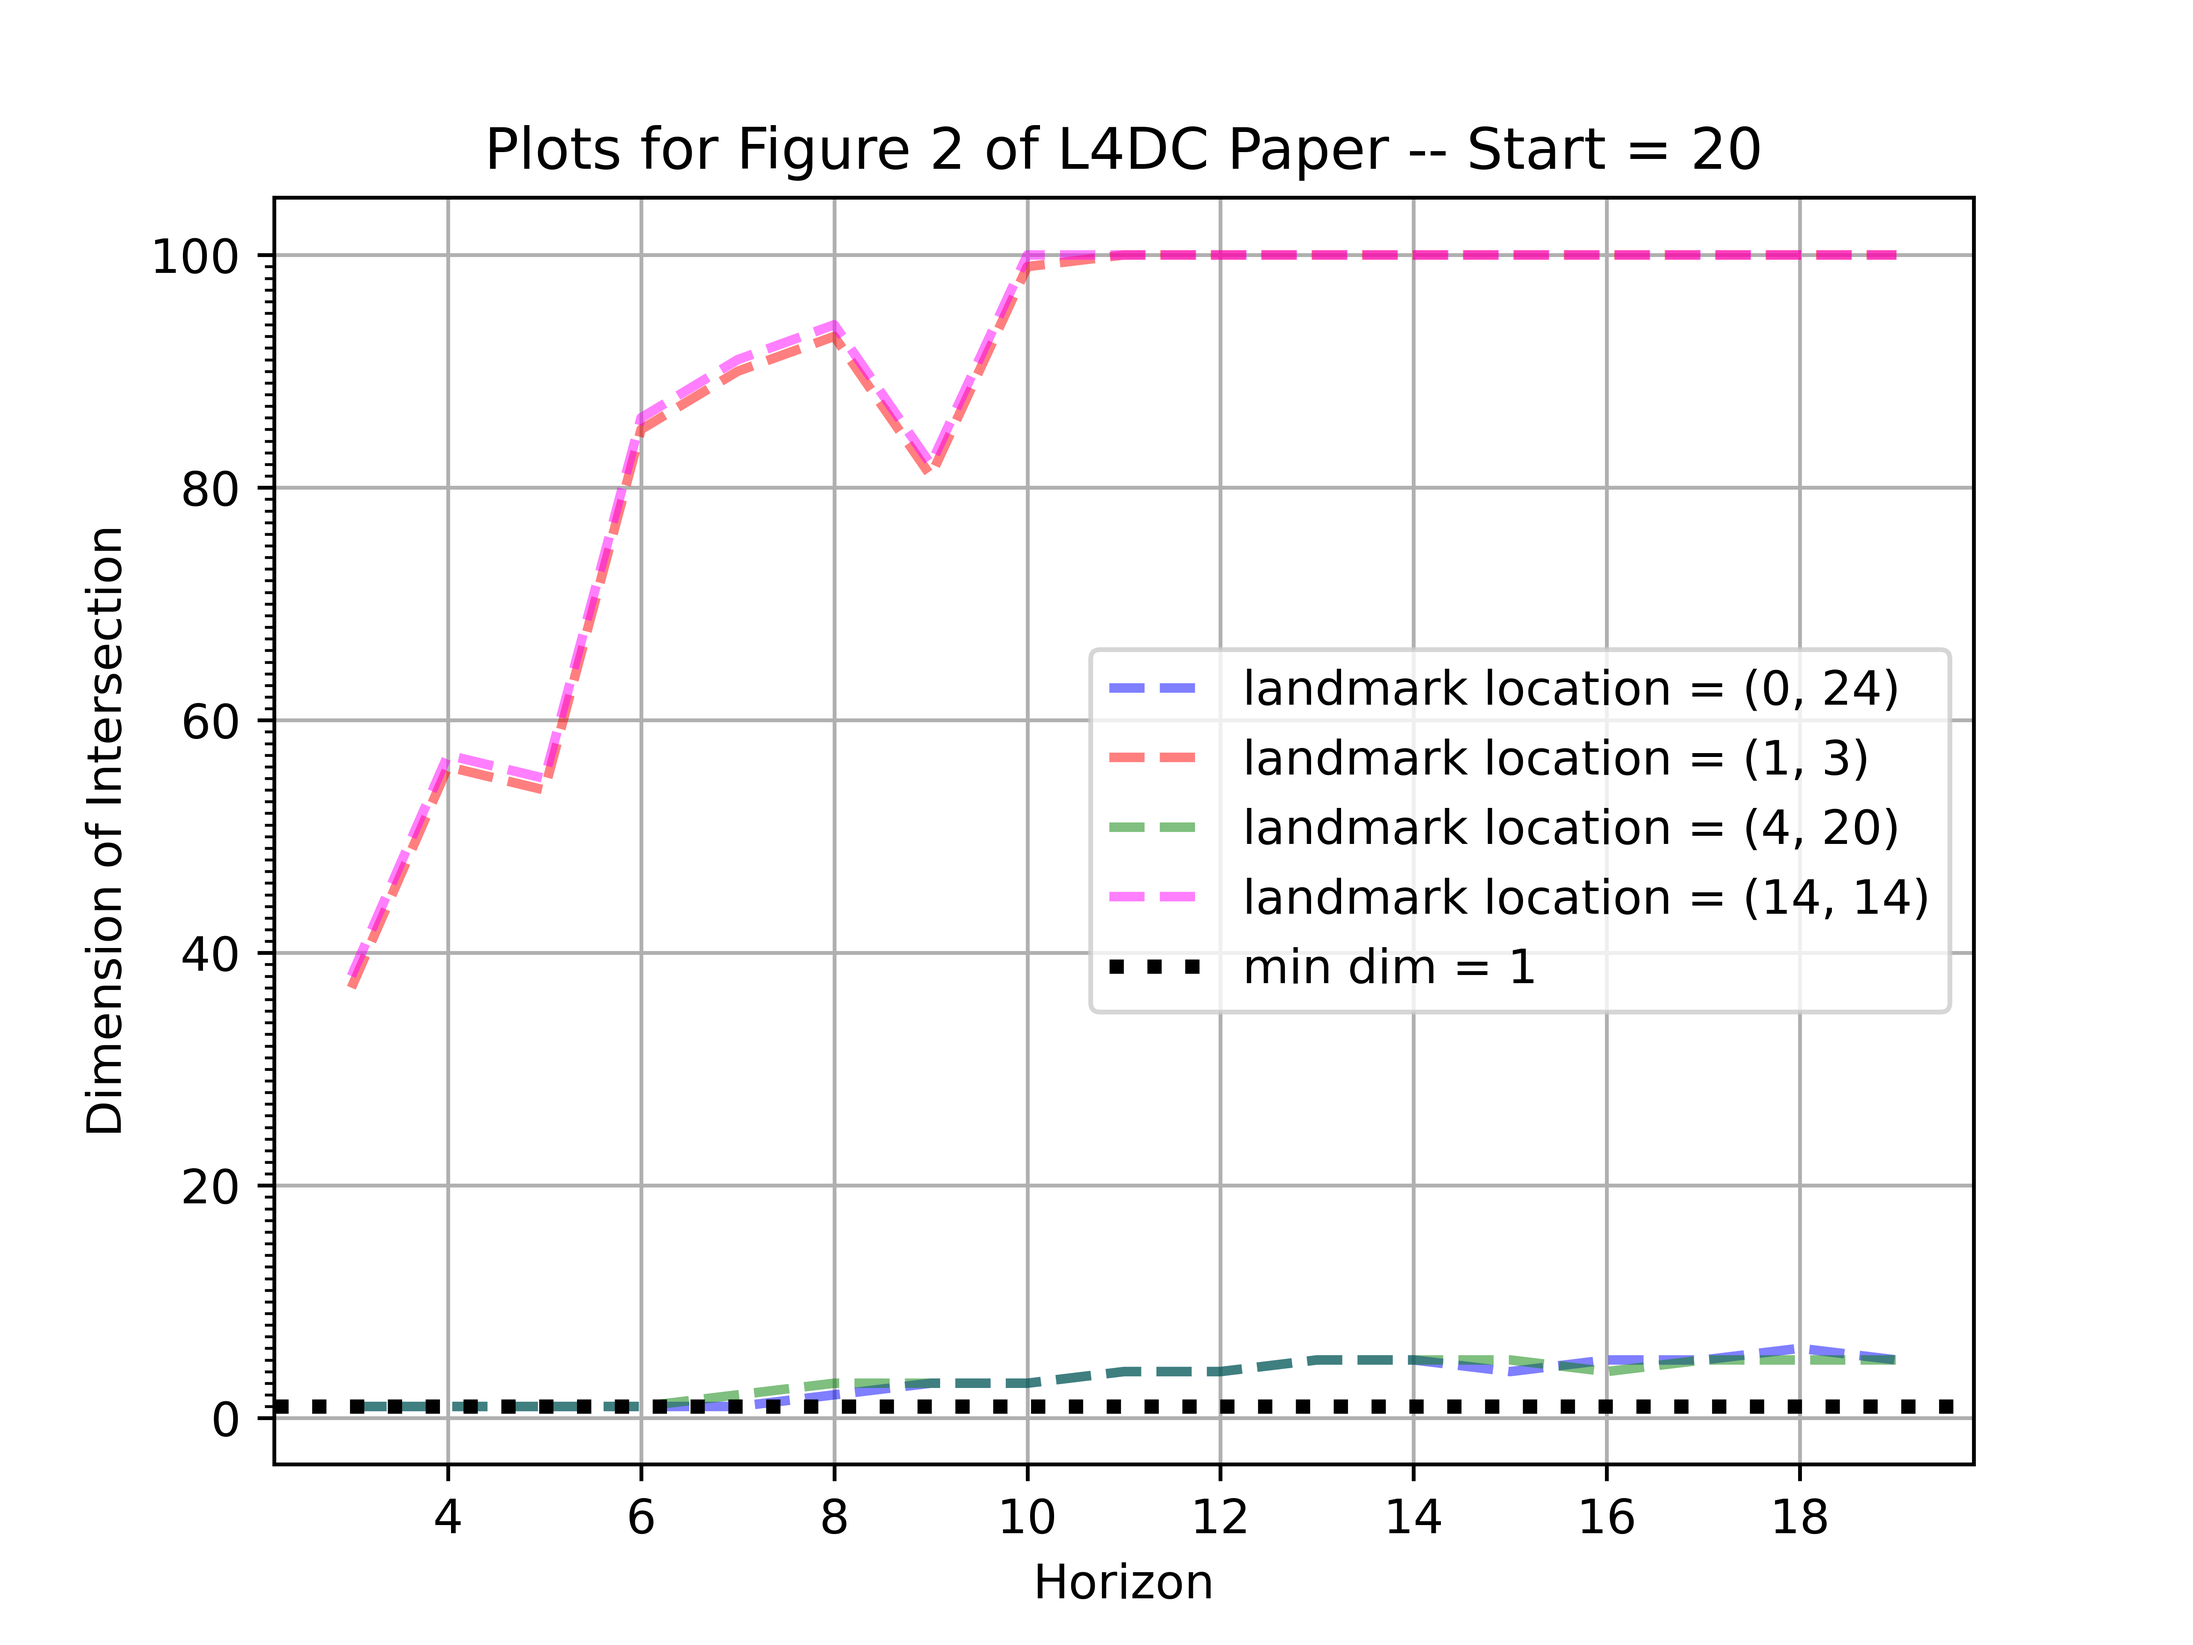
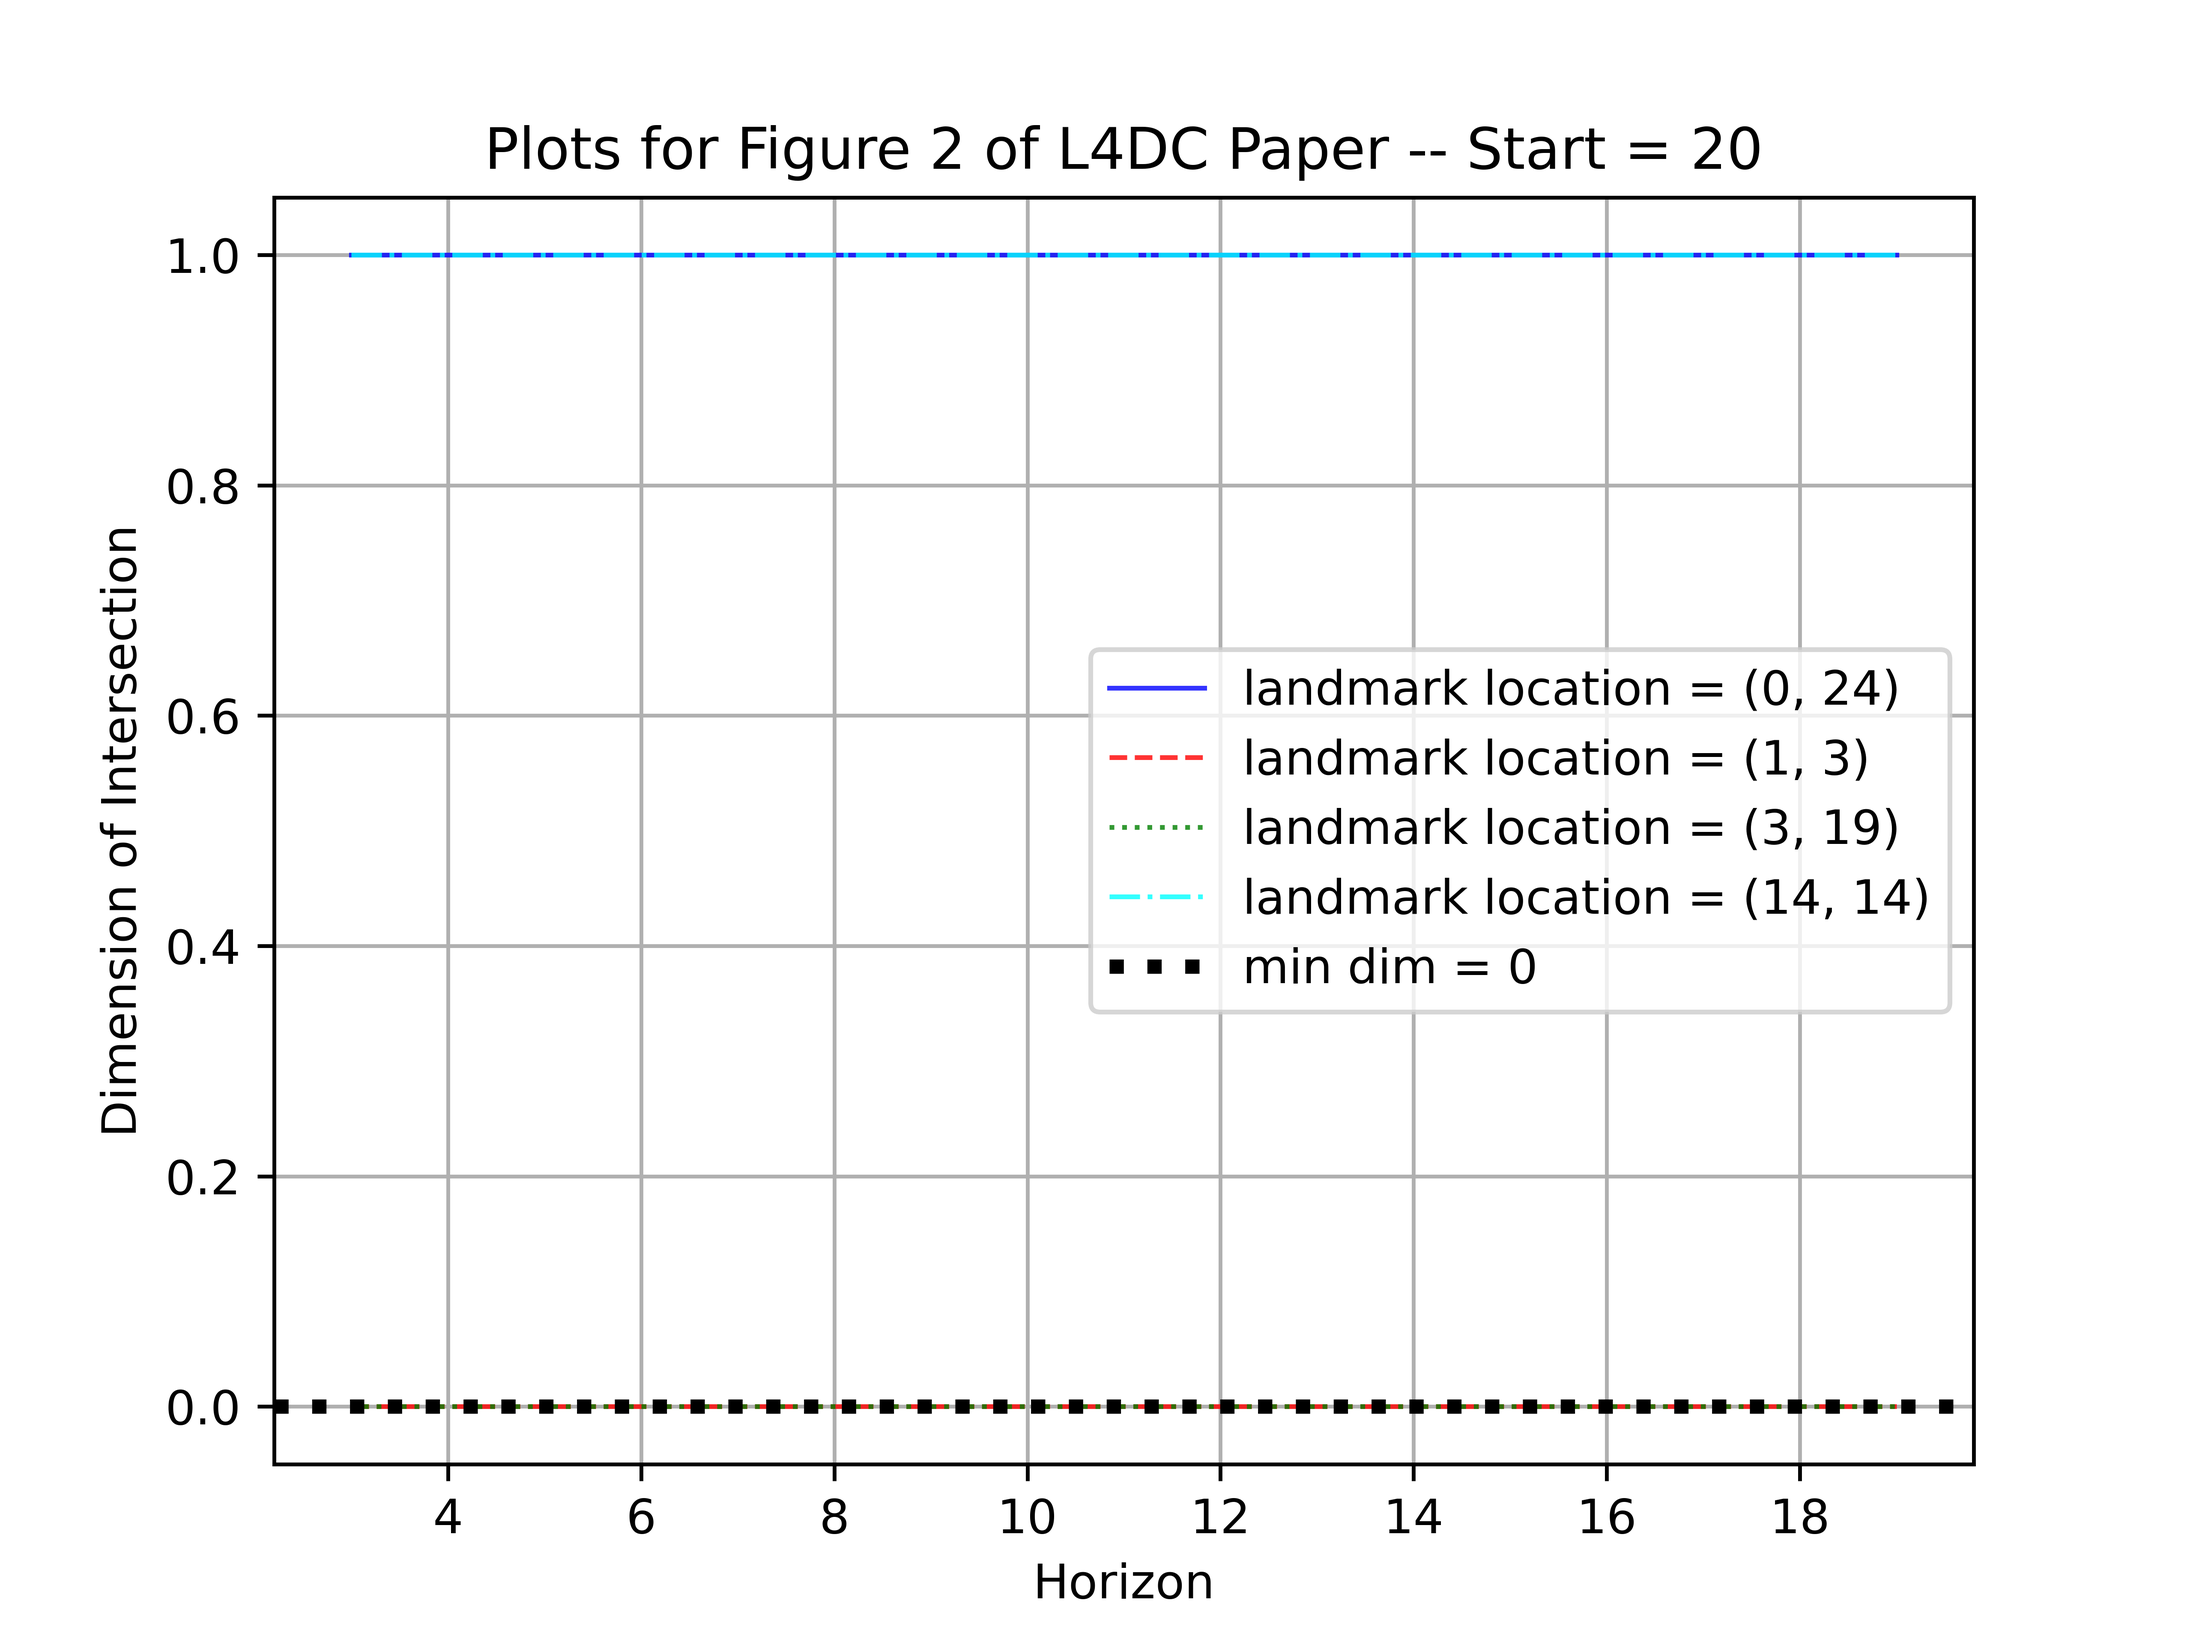
generate basis for feature

diff --git a/main_Gamma_Xi_feature_based.py b/main_Gamma_Xi_feature_based.py
@@ -18,19 +18,20 @@ if __name__ == '__main__':
     wind = 0.1
     discount = 0.9
     horizon =   13   
-    start_state = 24  
+    start_state = 24 
     feature_dim = 2
     # p1 = 20 # position of culvers burger joint
     # p2 = 20 # position of charging station
 
     theta = 5*np.ones((2,1))
 
-    landmark_locations = [(0,24), (1,3), (4,20), (14,14)]
-    color = ['blue', 'red','green', 'magenta']
+    landmark_locations = [(0,24), (1,3), (3,19), (14,14)]
+    color = ['blue', 'red','green', 'cyan']
+    style = ["-","--",":","-."]
     overall_min = 1e6
     overall_max = -1e6
     
-    for landmark_loc,col in zip(landmark_locations, color):
+    for landmark_loc,col,st in zip(landmark_locations, color,style):
         # print(start_state)
         t_step = []
         data = []
@@ -52,7 +53,8 @@ if __name__ == '__main__':
             # quick sanity check
             # v = np.linalg.pinv(Gamma) @ Xi    
             # assert np.linalg.norm(Gamma@v - Xi) <= 1e-5
-            A = projected_K
+            A = scipy.linalg.orth(projected_K)
+            # print("A", A.shape)
             B = F
             # print("Shape of B is: ", B.shape)
 
@@ -63,18 +65,24 @@ if __name__ == '__main__':
             V_p = V[:A.shape[1]]
 
             intersection = A@V_p
+            # print(intersection.shape)
             # print(np.linalg.matrix_rank(intersection))
-            data.append( np.linalg.matrix_rank(intersection))
+            # if np.linalg.matrix_rank(intersection) == 100:
+            #     print("A:", A.shape)
+            #     print("B:", B.shape)
+            #     print("V:", V.shape)
+            # data.append( np.linalg.matrix_rank(intersection))
+            data.append(intersection.shape[1])
             t_step.append(t)
             # print(t)
         
-        # # print("min is: ", min(data))    
+        # print("min is: ", min(data))    
         if min(data) < overall_min:
             overall_min = min(data)
         if max(data)> overall_max:
             overall_max = max(data)
         
-        plt.plot(t_step, data, linestyle='--',  color= col, linewidth = 2.0, alpha=0.5, label = f"landmark location = {(p1,p2)}")    
+        plt.plot(t_step, data, linestyle=st,  color= col, linewidth = 1.0, alpha=0.8, label = f"landmark location = {(p1,p2)}")    
         # plt.plot(t_step, n_unreach_states, linestyle=':',  color= col, linewidth = 1.0, alpha=0.5, label = f"start state = {start_state}")
 
     plt.axhline(y = overall_min, color = 'black', linestyle=':',linewidth = 3.0, label = f'min dim = {overall_min}')
